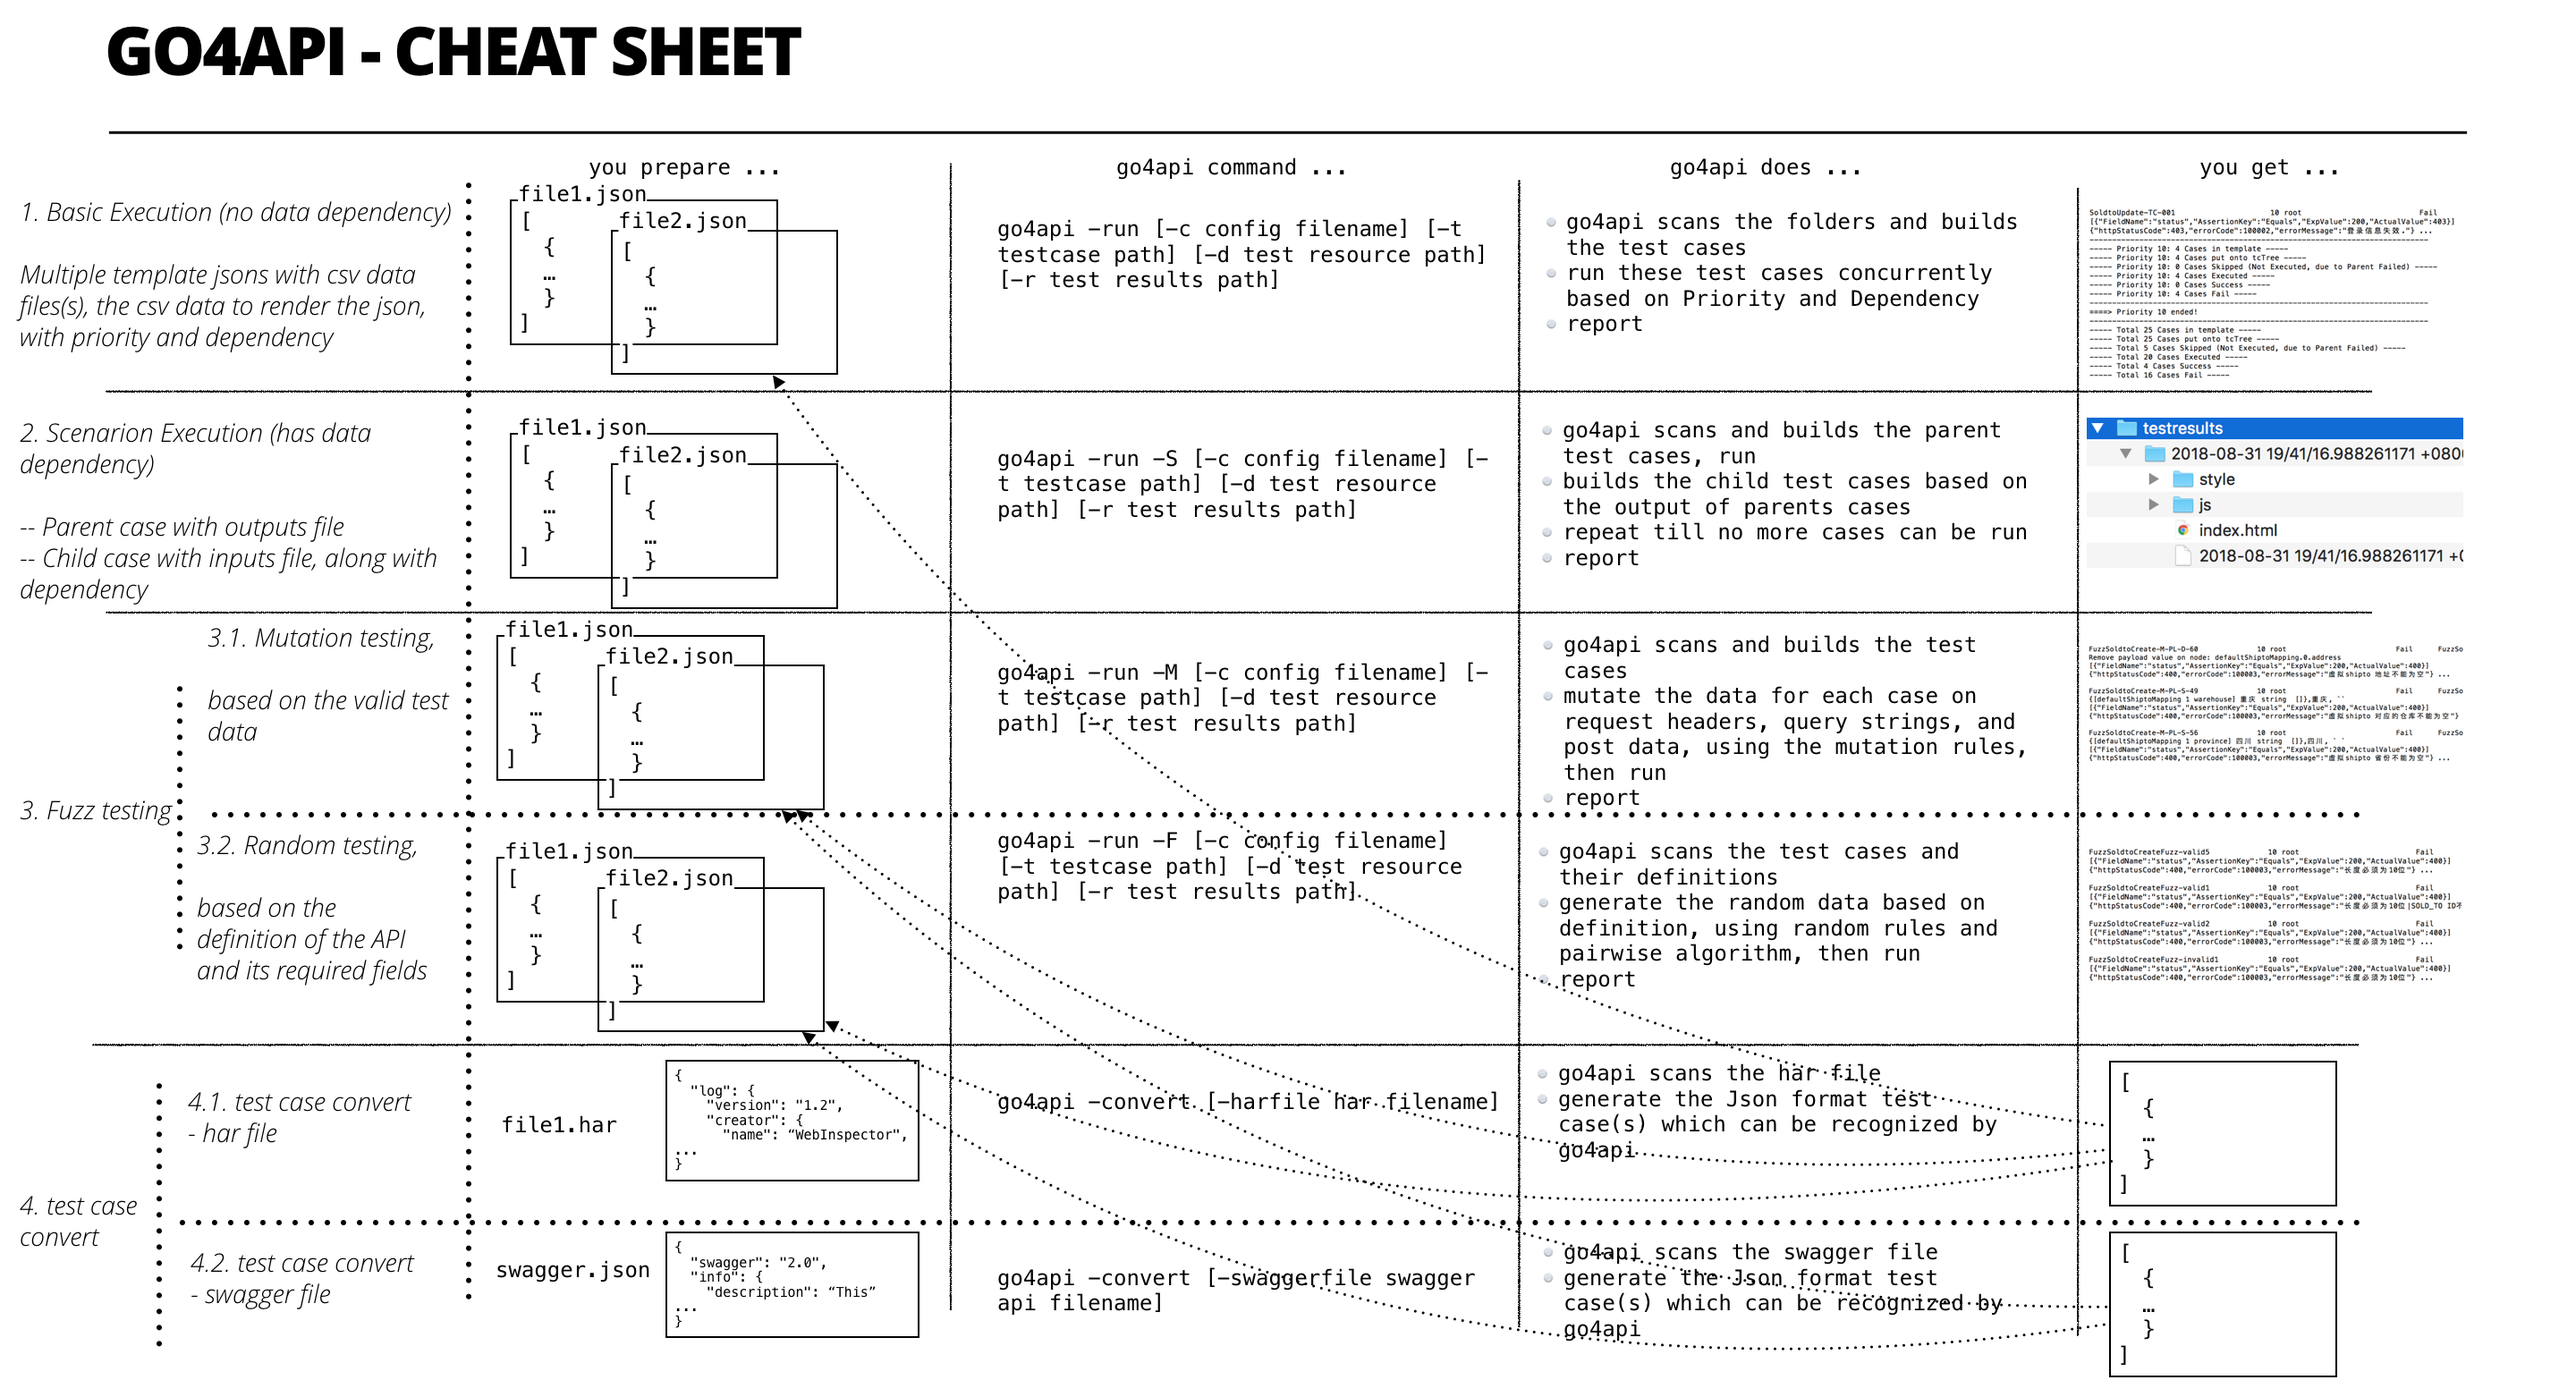
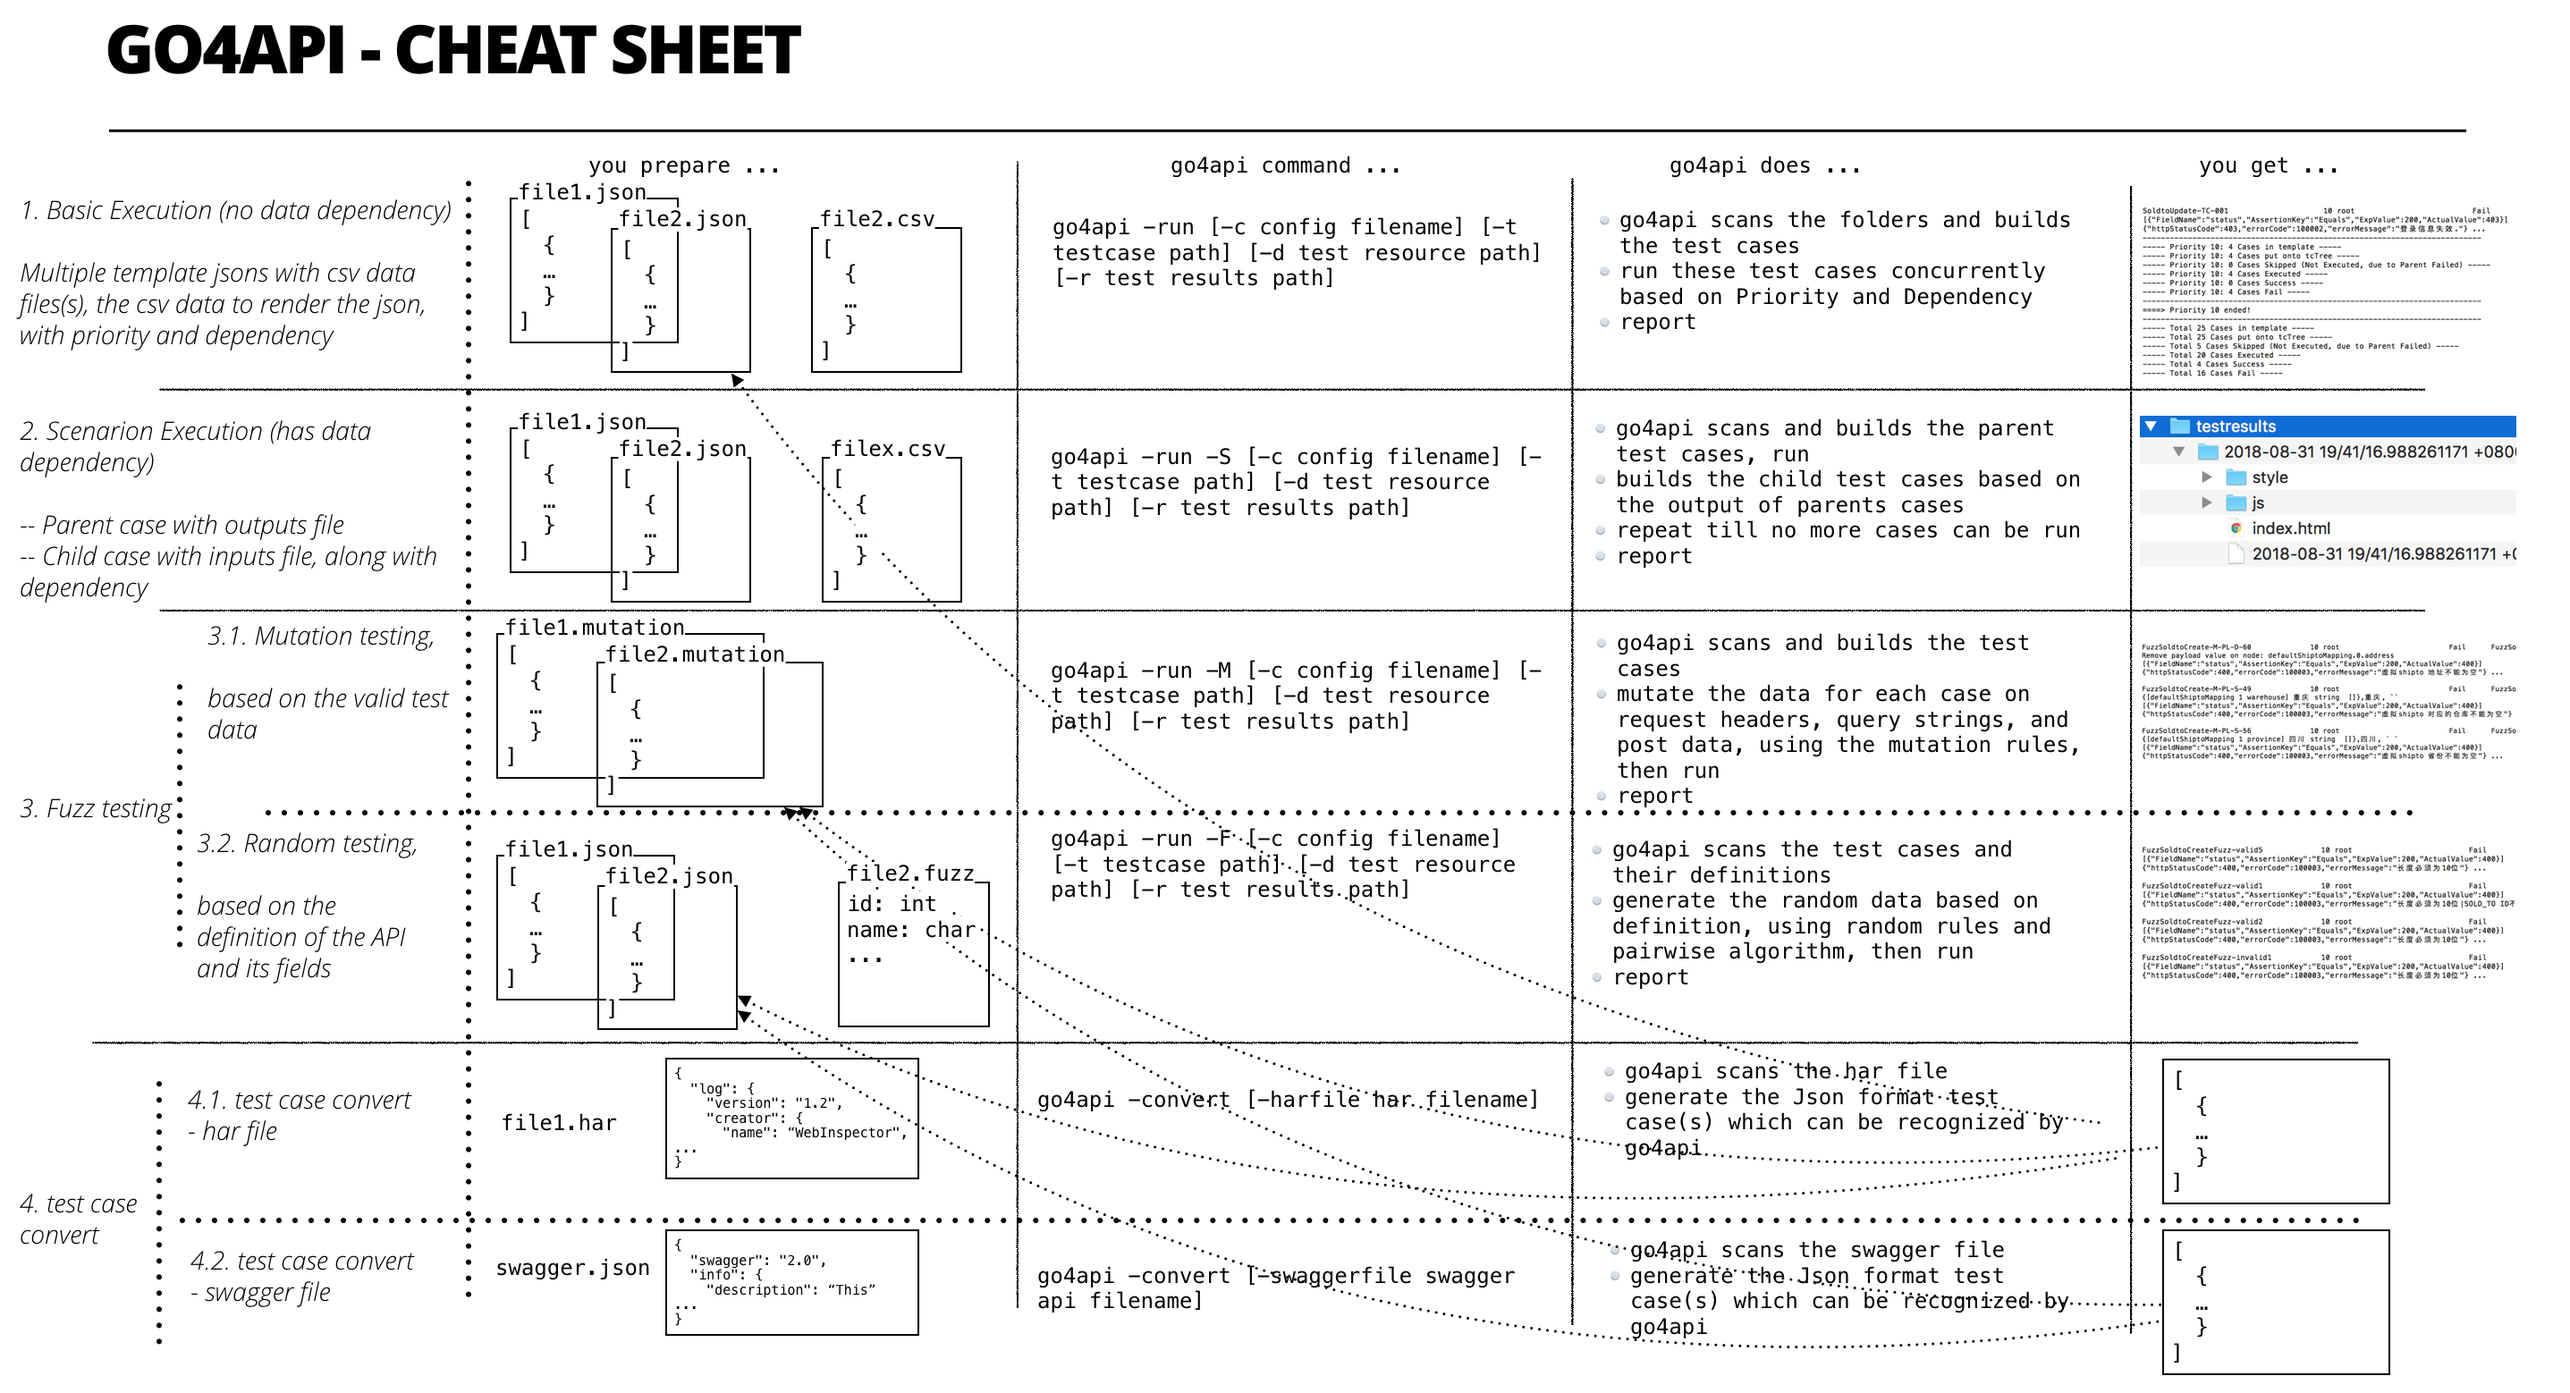
readmin

diff --git a/README.md b/README.md
@@ -1,5 +1,5 @@
 <h3 align="center">Go4Api - a API testing tool written in Go</h3>
-<p align="center">Implementing Data-Driven Test, written in Go.</p>
+<p align="center">Implementing Data-Driven Test, Fuzz Test.</p>
 
 ---
 
